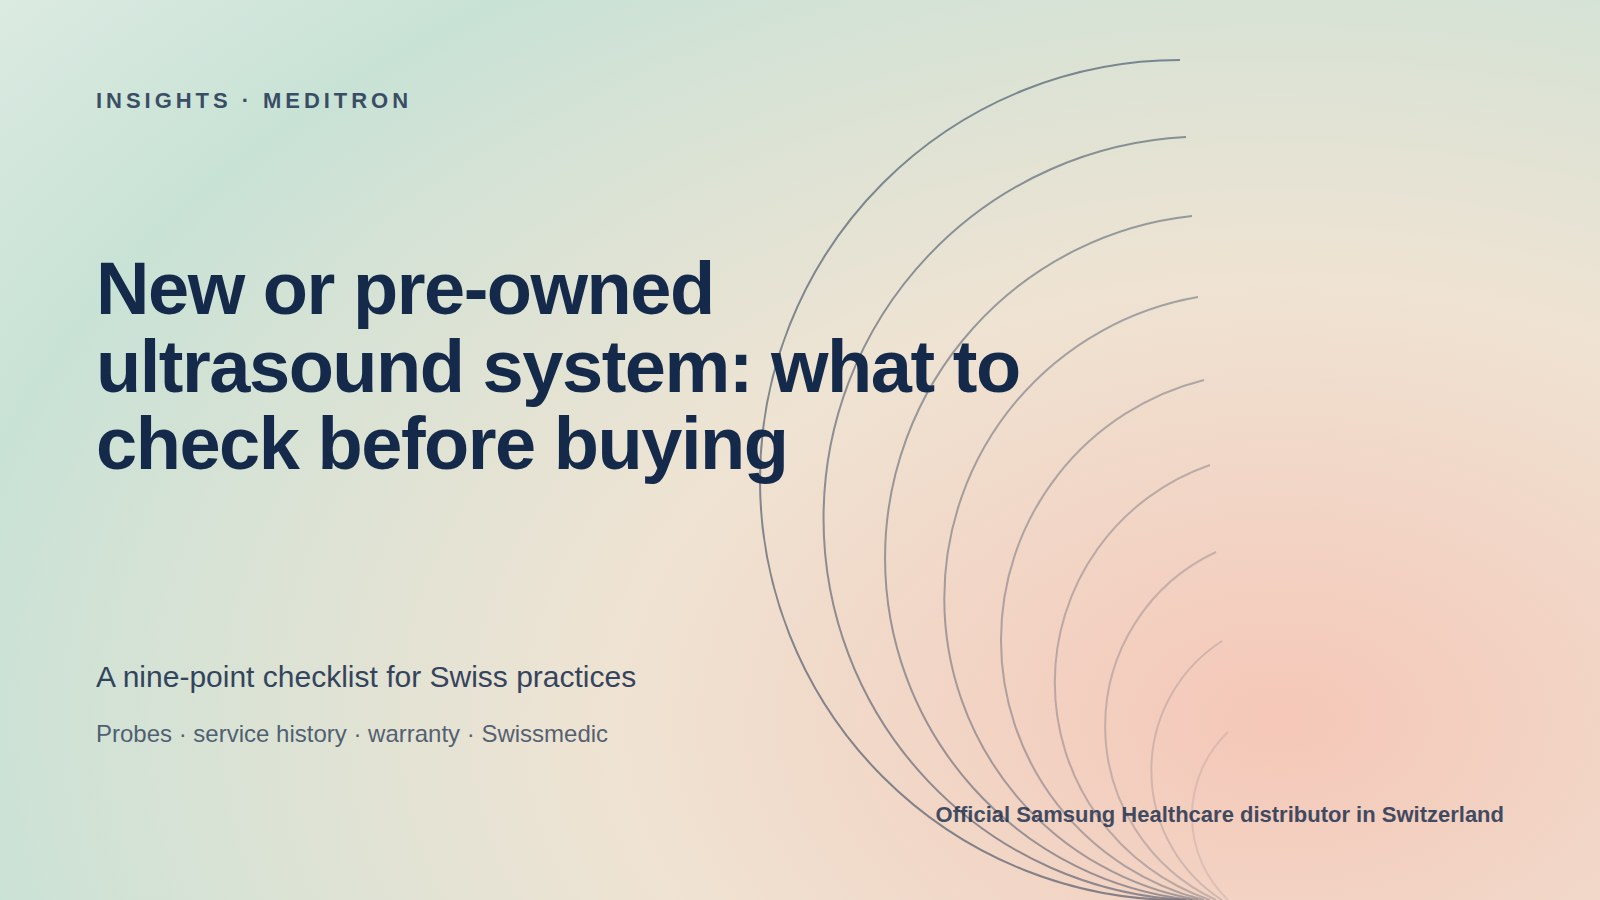
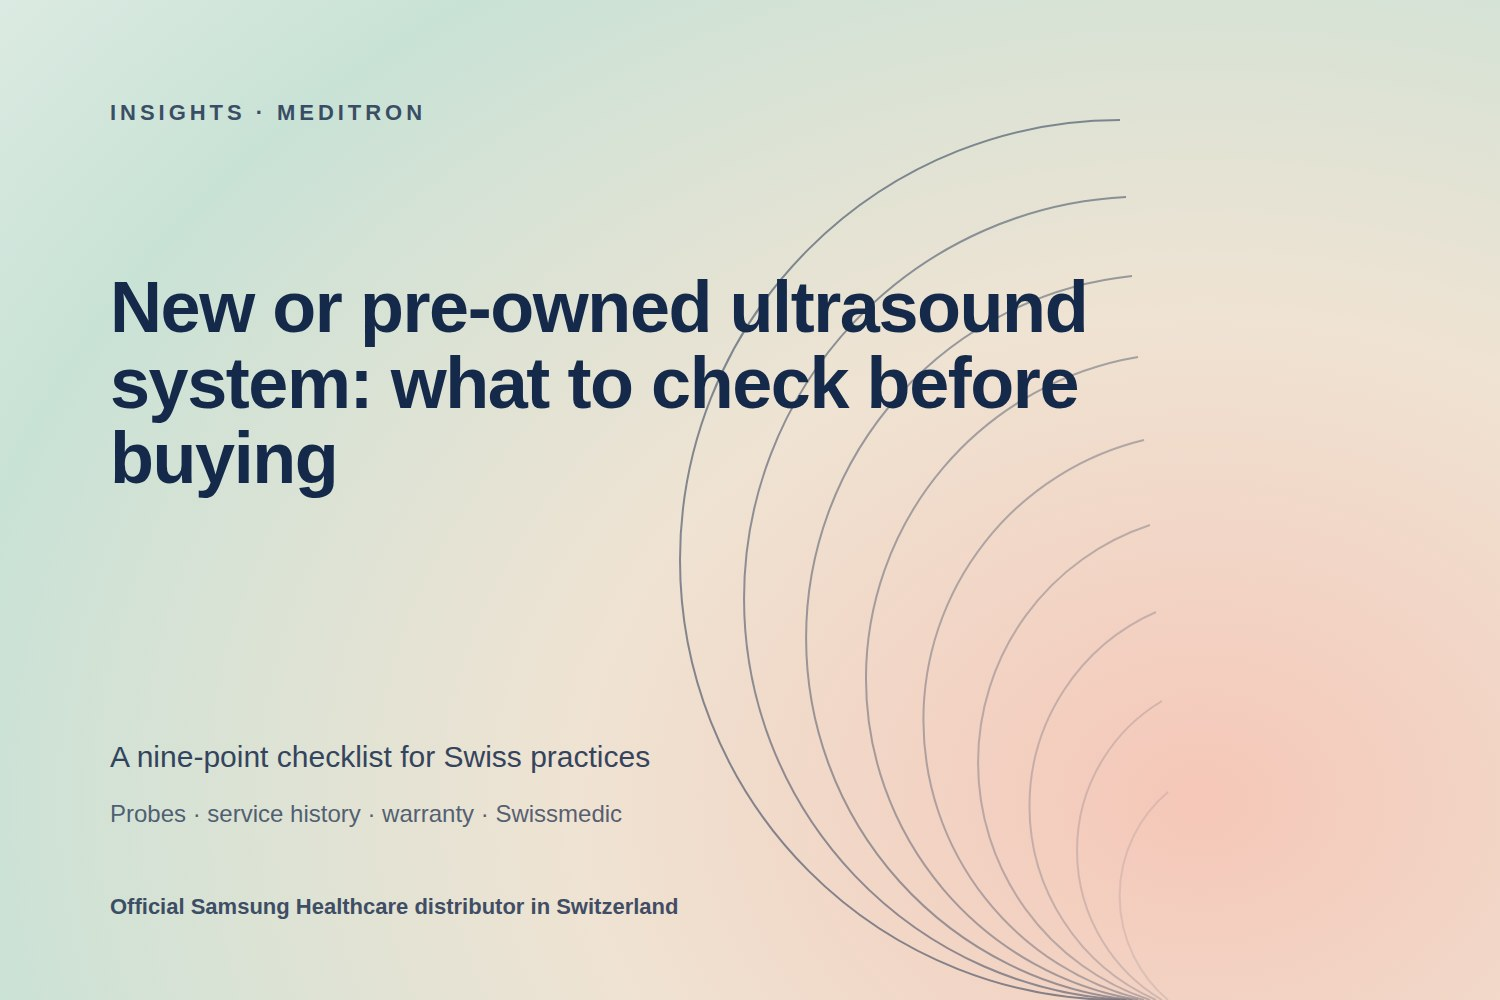
Rename Latest to Insights, 3:2 article images, home heading
Claude-Session: https://claude.ai/code/session_01968vThafBjSv4PEqEqend9

diff --git a/docs/06-framer-technical-checklist.md b/docs/06-framer-technical-checklist.md
@@ -109,3 +109,9 @@ Verification after each publish: `/seo page <url>` on the changed pages, `/seo h
 - Authors set in Framer: 1 Nikita Müller (reviewed by Henri), 2 Dr. Henri Hagenmüller (reviewed by Nikita), 3 Christelle Sam-Hine (reviewed by Henri). Bylines localised in DE/FR.
 - Hero images: generated typographic images (1600×900 JPEG, site gradient palette) via `scripts/framer/hero-images.mjs` (headless Chromium), uploaded with `framer.uploadImage`, stored in `content/images/`. Replace with product photography when Meditron supplies it; same field, same alt text.
 - Gotcha: `addItems` with `valueByLocale` needs `{ action: "set", value }` per locale; `uploadImage` takes `{ image: { bytes, mimeType }, name, altText }`.
+
+## Status 2026-09-30 (later) – Insights labels and image ratio
+- Nav (`New Navigation` Q6QxmZWoF) and footer (`New Footer` oY3QwAzZI): "Latest" → "Insights" in all four languages (Link component `$control__text` on F9FW9kWLm, pi1MyyNzu, KAcsaSE_i, Kj0yhCspj; localisation sources set to "Insights").
+- Home section heading: "News & Events" → "News and Insights" (EN), "News und Insights" (DE), "Actualités et Insights" (FR), "Notizie e Insights" (IT). The /news-events page heading is unchanged.
+- Article images: list card frame (EuCgXuDmA + breakpoint replicas) and article hero (pvpvOm4RW + replicas) both set to aspectRatio 1.5 (3:2) so the same image shows uncropped everywhere. Hero images regenerated at 1500×1000 with 110px safe margins (`scripts/framer/hero-images.mjs`). Any future article image should be supplied at 3:2.
+- Published to production, version 089630422.
